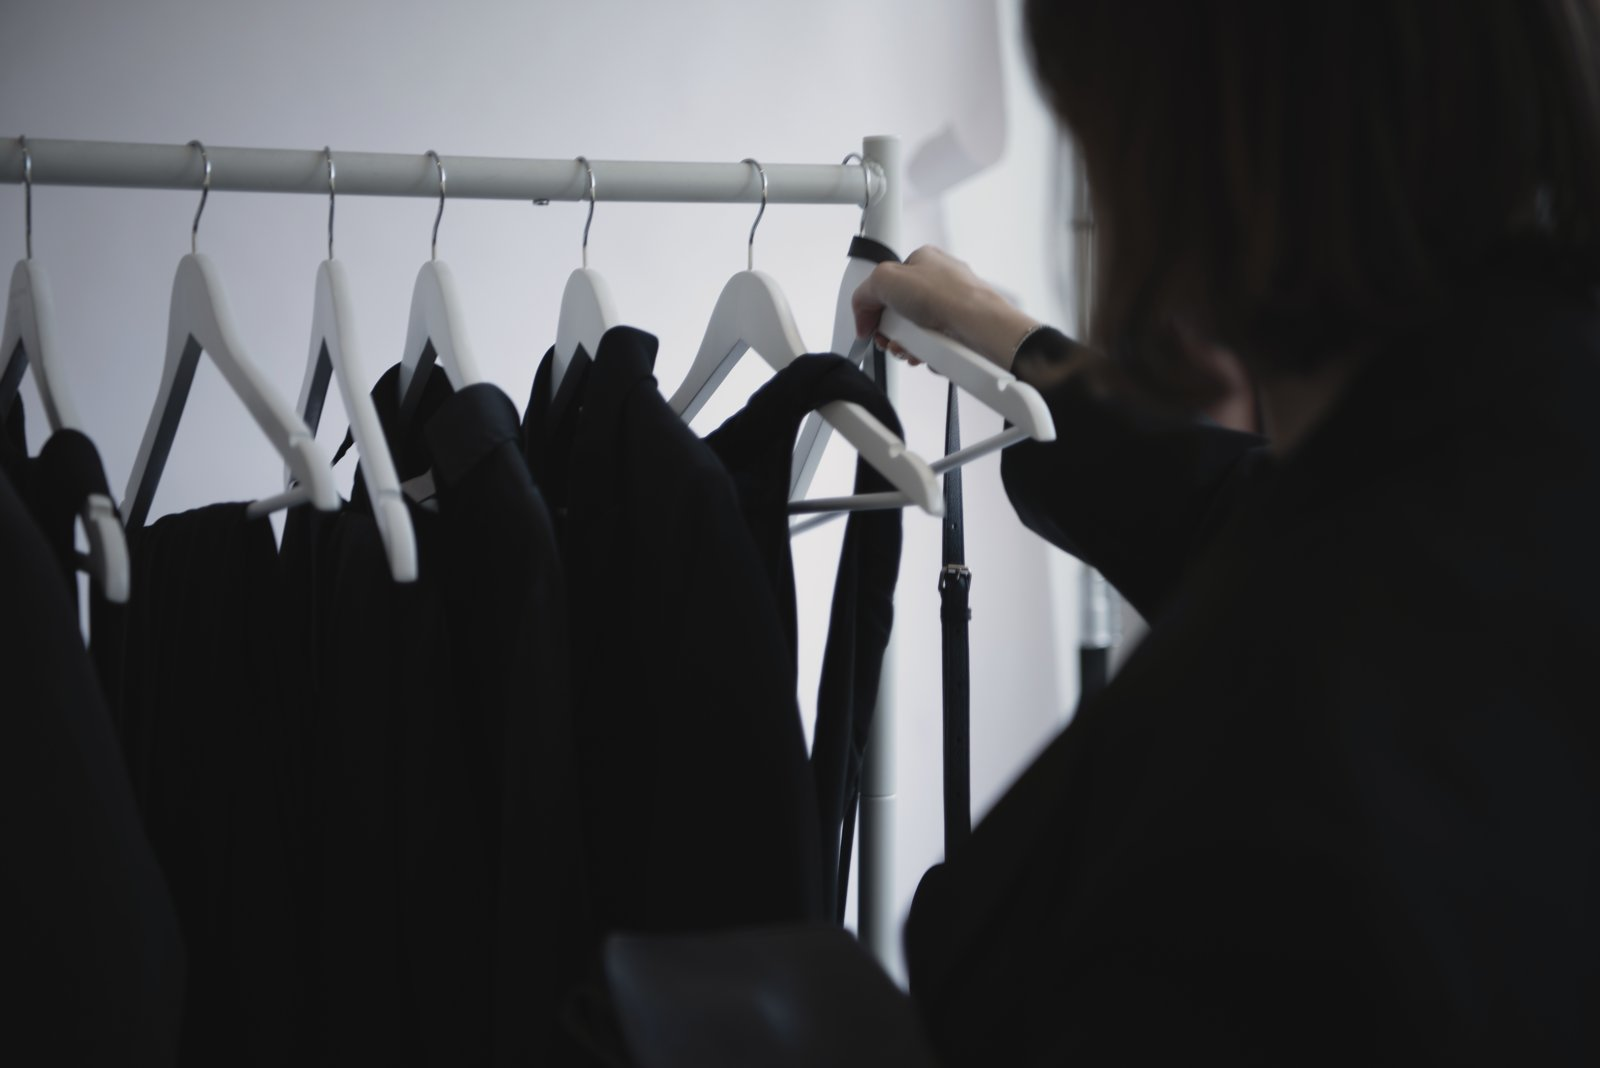
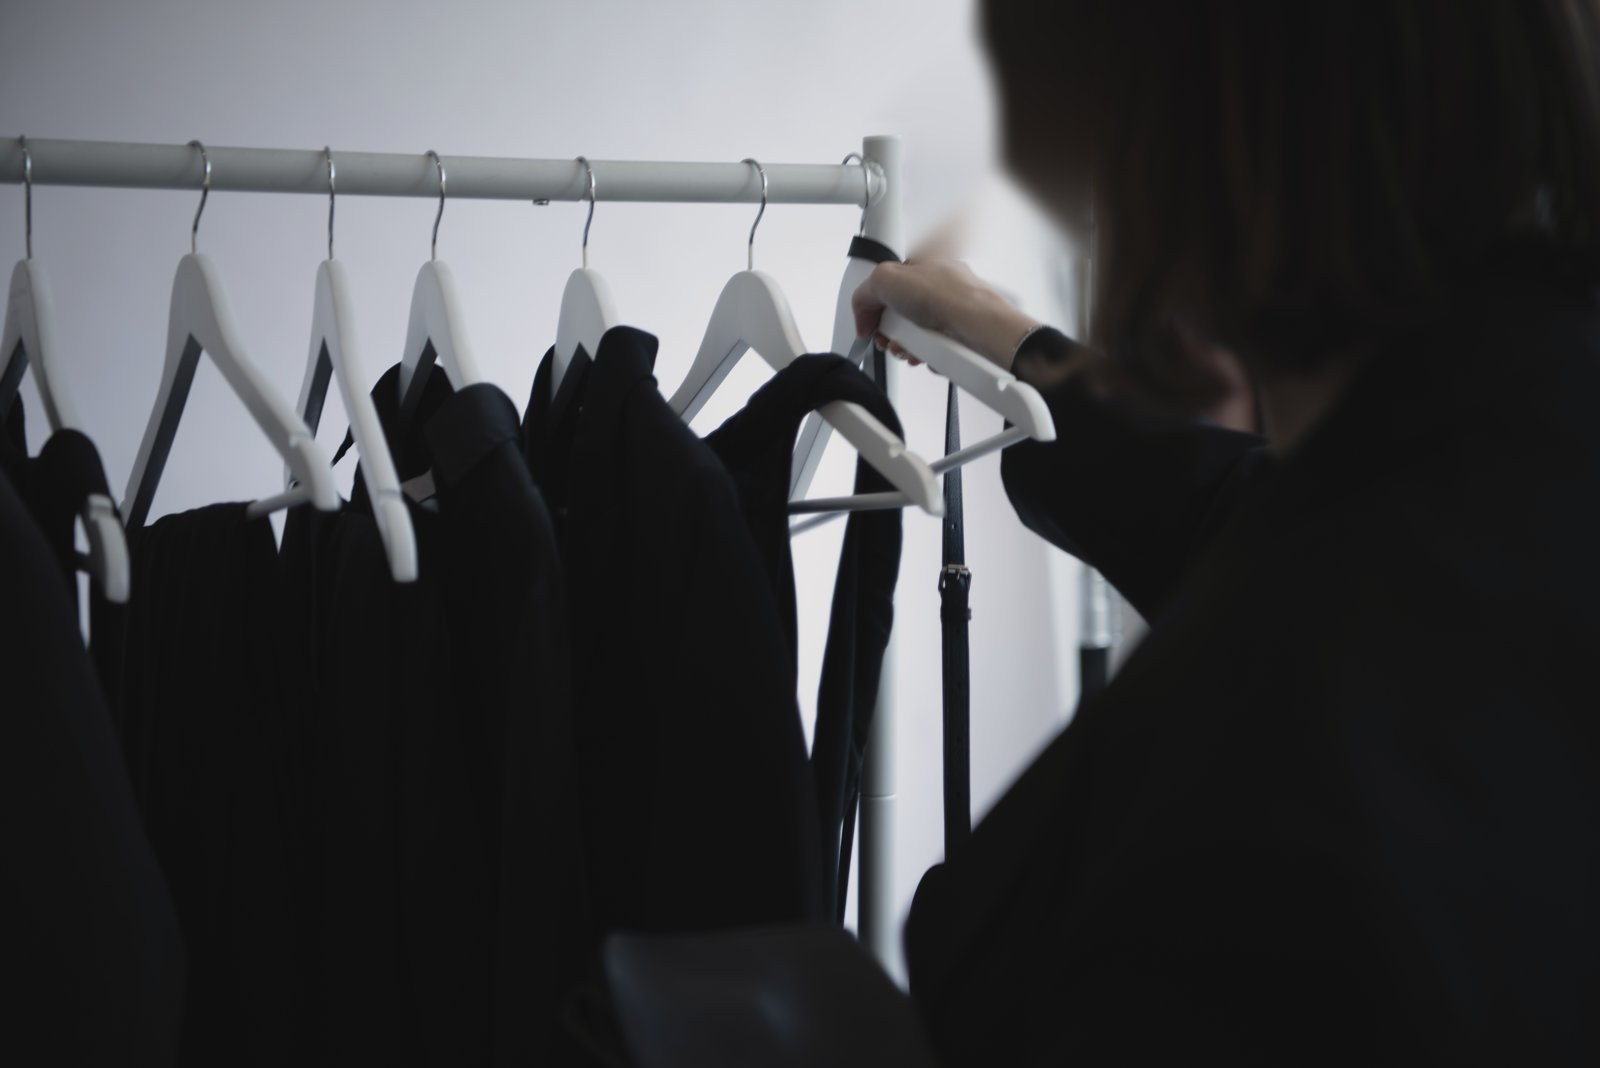
updated version
updated version. ship

Changed region(s): [[0.5625, 0.0, 0.6875, 0.2472]]

diff --git a/src/app/components/Root.tsx b/src/app/components/Root.tsx
@@ -195,10 +195,12 @@ export default function Root() {
           <div className="grid grid-cols-1 sm:grid-cols-2 lg:grid-cols-3 gap-10 lg:gap-16 mb-12 lg:mb-16">
             {/* Left - Brand */}
             <div className="sm:col-span-2 lg:col-span-1">
-              <img src={footerWordmark} alt="Kenny Donna Collective" className="h-[32px] w-auto mb-4" />
-              <p className="text-sm" style={{ color: '#D6D0CF', fontWeight: 300 }}>
-                Marketing, shaped like a brand.
-              </p>
+              <div className="inline-flex flex-col items-center">
+                <img src={footerWordmark} alt="Kenny Donna Collective" className="h-[32px] w-auto mb-4" />
+                <p className="text-sm text-center" style={{ color: '#D6D0CF', fontWeight: 300 }}>
+                  Marketing, shaped like a brand.
+                </p>
+              </div>
             </div>
 
             {/* Center - Navigation */}